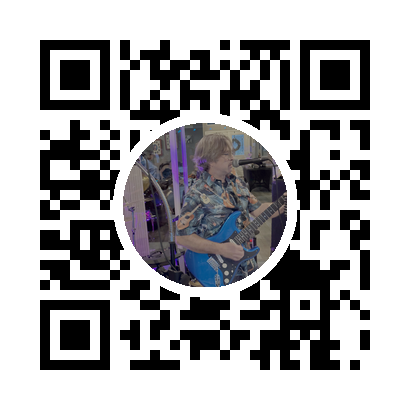
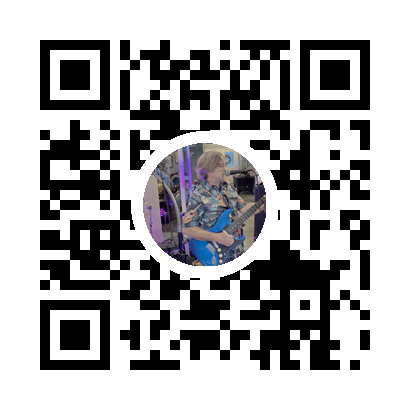
Make more changes to Kevin's QR Codes

Changed region(s): [[0.2634, 0.2634, 0.7317, 0.7317]]

diff --git a/public/QR-Contacts/Kevin/Kevin.html b/public/QR-Contacts/Kevin/Kevin.html
@@ -19,6 +19,7 @@
     <!-- Change alt=name and H1 Name -->
     <img src="Kevin.jpg" alt="Kevin" />
     <h1>Kevin Ferguson</h1>
+    <h3><a href="https://www.GuitarLearningShow.com" target="_blank">GuitarLearningShow.com</a></h3>
     <h3> </h3>
 
     <!-- 🔗 ICON ROW START -->
@@ -27,10 +28,7 @@
       <a href="https://www.instagram.com/GuitarLearningShow" title="Instagram" target="_blank">
         <i class="fab fa-instagram"></i>
       </a>
-      <!-- LinkedIn ADD /NAME-->
-      <!-- <a href="https://www.linkedin.com/in/Name" title="LinkedIn" target="_blank">
-        <i class="fab fa-linkedin"></i>
-      </a> -->
+
       <a href="https://www.youtube.com/@GuitarLearningShow" title="YouTube" target="_blank">
         <i class="fab fa-youtube"></i>
       </a>
@@ -52,22 +50,7 @@
         <i class="fas fa-user-plus"></i>
       </a>
 
-      <!-- GitHub -->
-      <!-- <a href="https://github.com/Name" title="GitHub" target="_blank">
-      <i class="fab fa-github"></i>
-    </a> -->
-
-      <!-- Calendly -->
-      <!-- <a href="https://calendly.com/" title="Schedule a Call" target="_blank">
-      <i class="fas fa-calendar-alt"></i>
-    </a>
-   -->
-
-      <!-- Phone ADD Number and Name-->
-      <!-- <a href="tel:+18133231550" title="Call Kevin">
-        <i class="fas fa-phone"></i>
-      </a>
-    </div> -->
+    </div>
     <!-- 🔗 ICON ROW END -->
     <br>
 
@@ -76,9 +59,7 @@
     <h3></h3>
     <br>
 
-    <!-- ******** Optional Link         -->
-    <!-- <a href="../NewPortfolio.html" class="button">Project Portfolio</a>    </div> -->
-    <!-- <script src="../../qr-download.js"></script> -->
+  </div>
 </body>
 
 </html>
